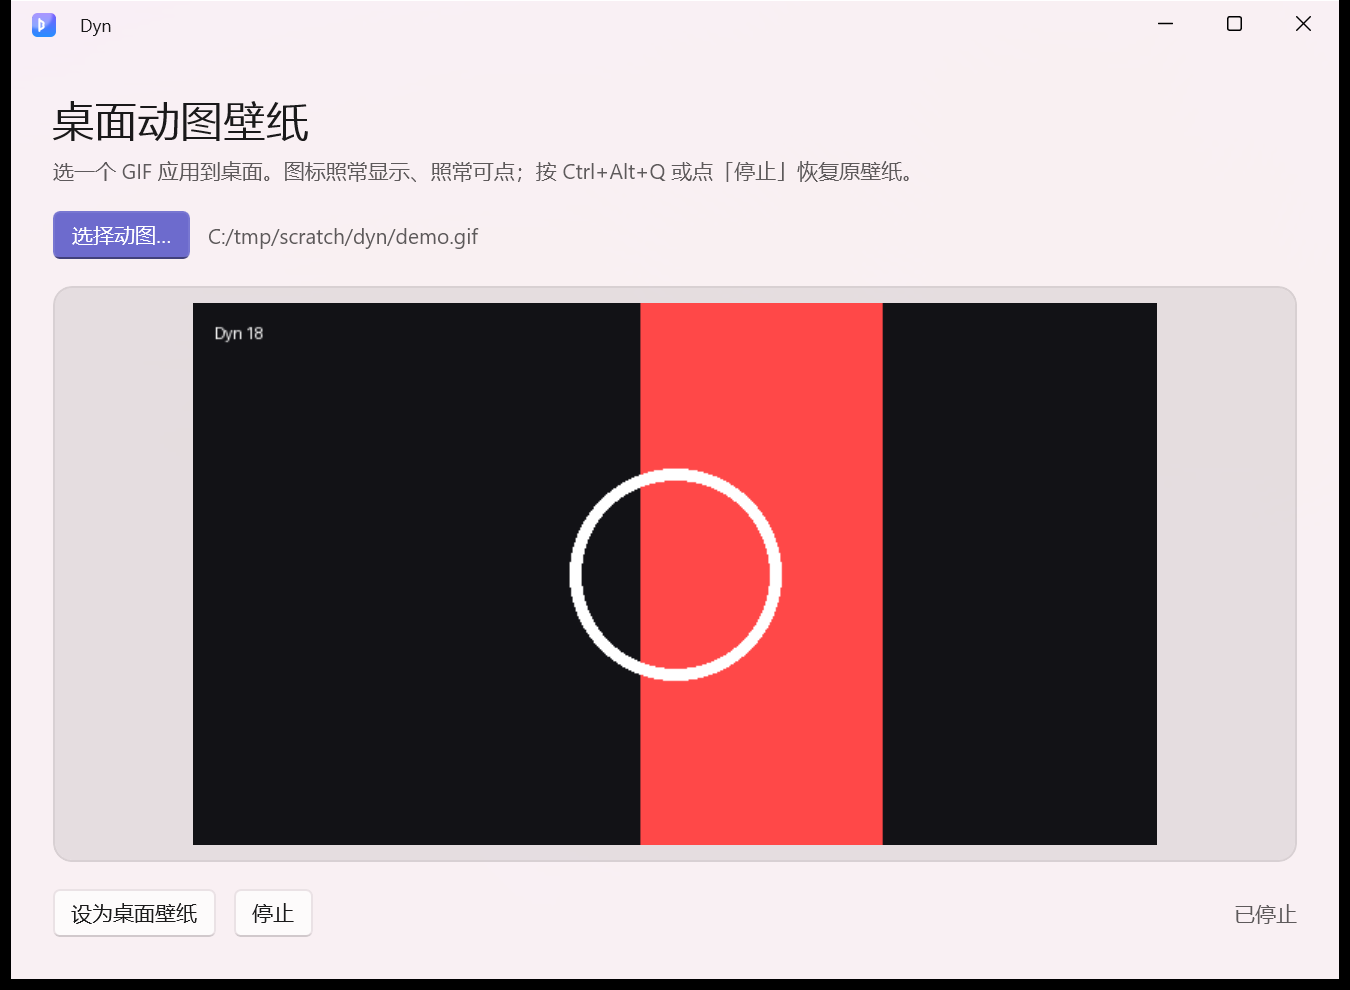
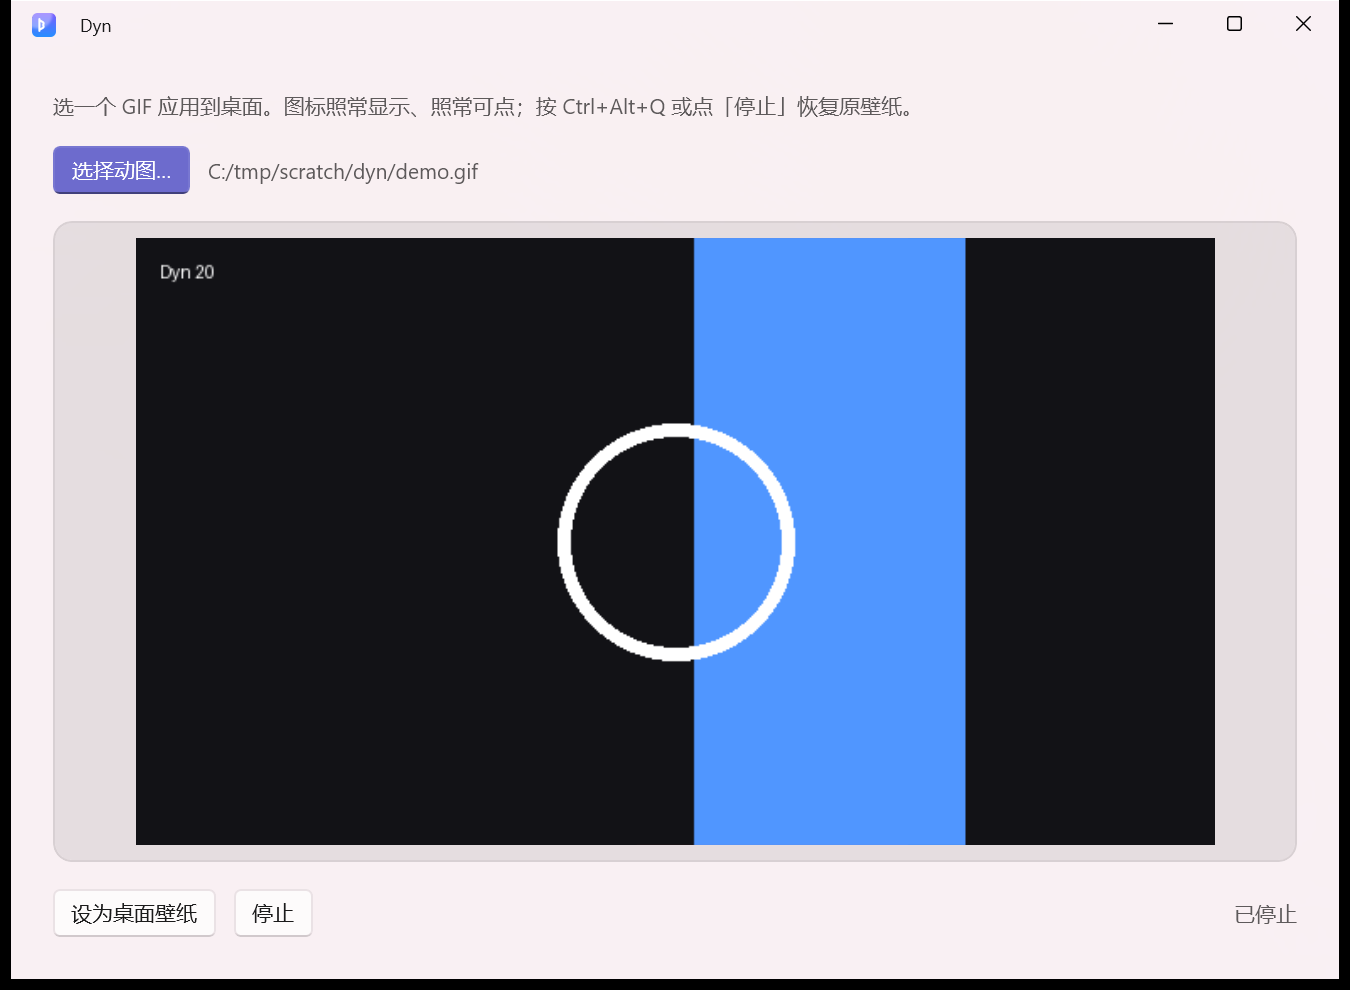
ui: 去掉页内大标题；状态栏在引擎退出后回到「已停止」

Changed region(s): [[0.0311, 0.0909, 0.9022, 0.8788]]

diff --git a/app/MainPage.xaml b/app/MainPage.xaml
@@ -17,7 +17,6 @@
         </Grid.RowDefinitions>
 
         <StackPanel Grid.Row="0" Spacing="6">
-            <TextBlock Text="桌面动图壁纸" Style="{StaticResource TitleTextBlockStyle}" />
             <TextBlock Text="选一个 GIF 应用到桌面。图标照常显示、照常可点；按 Ctrl+Alt+Q 或点「停止」恢复原壁纸。"
                        Opacity="0.7" TextWrapping="Wrap" />
         </StackPanel>

diff --git a/app/MainPage.xaml.cs b/app/MainPage.xaml.cs
@@ -95,6 +95,6 @@ public sealed partial class MainPage : Page
     {
         if (!File.Exists(EngineExe)) return;
         bool running = Process.GetProcessesByName("Dyn.Engine").Length > 0;
-        if (running) StatusText.Text = "桌面壁纸运行中（Ctrl+Alt+Q 退出）";
+        StatusText.Text = running ? "桌面壁纸运行中（Ctrl+Alt+Q 退出）" : "已停止";
     }
 }
